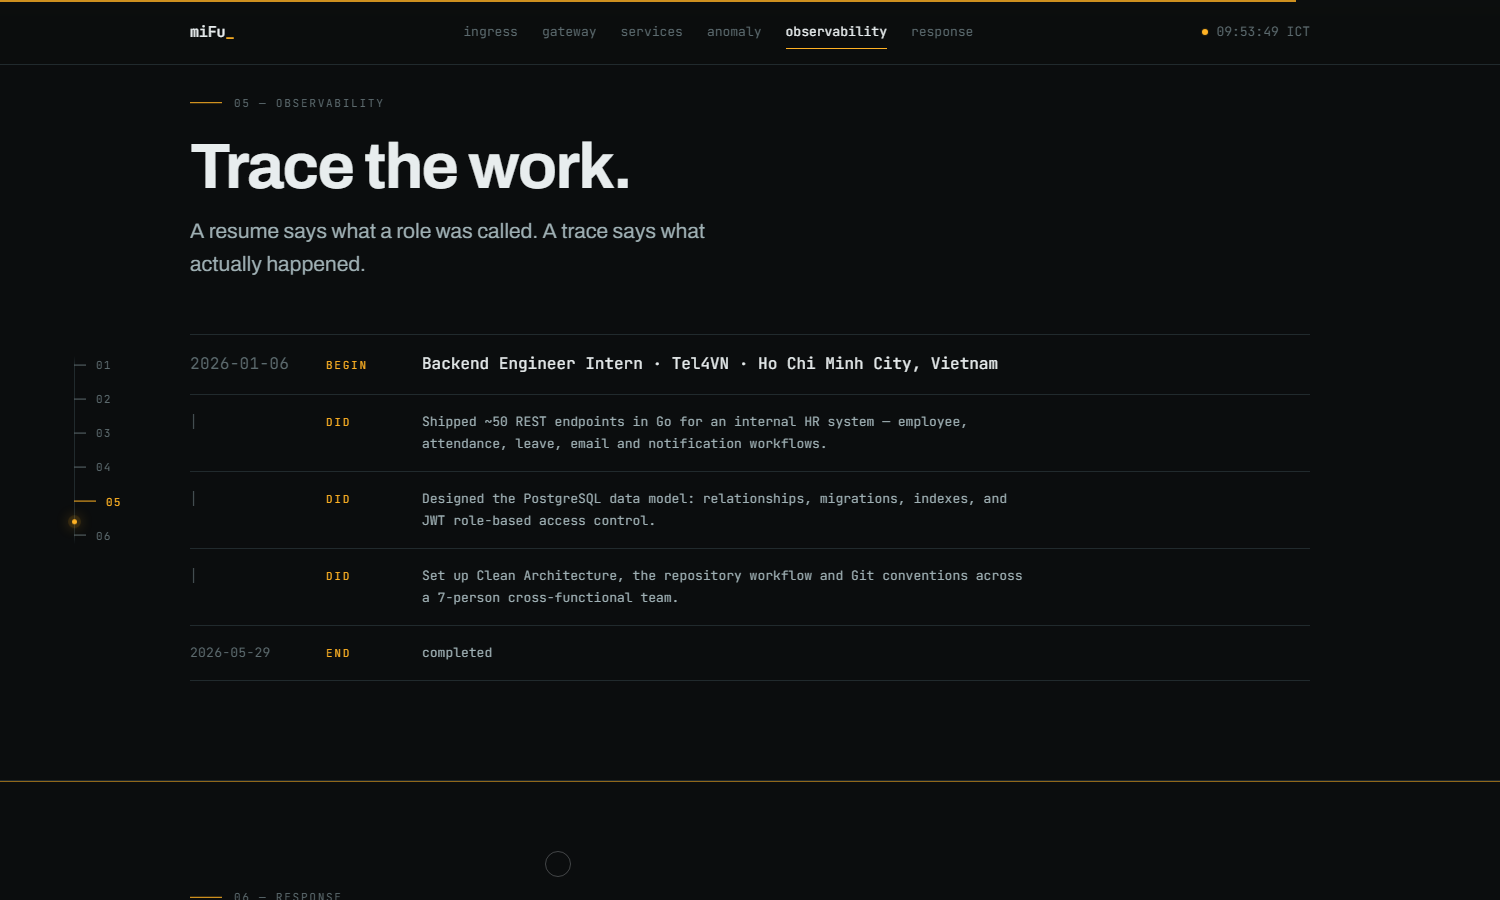
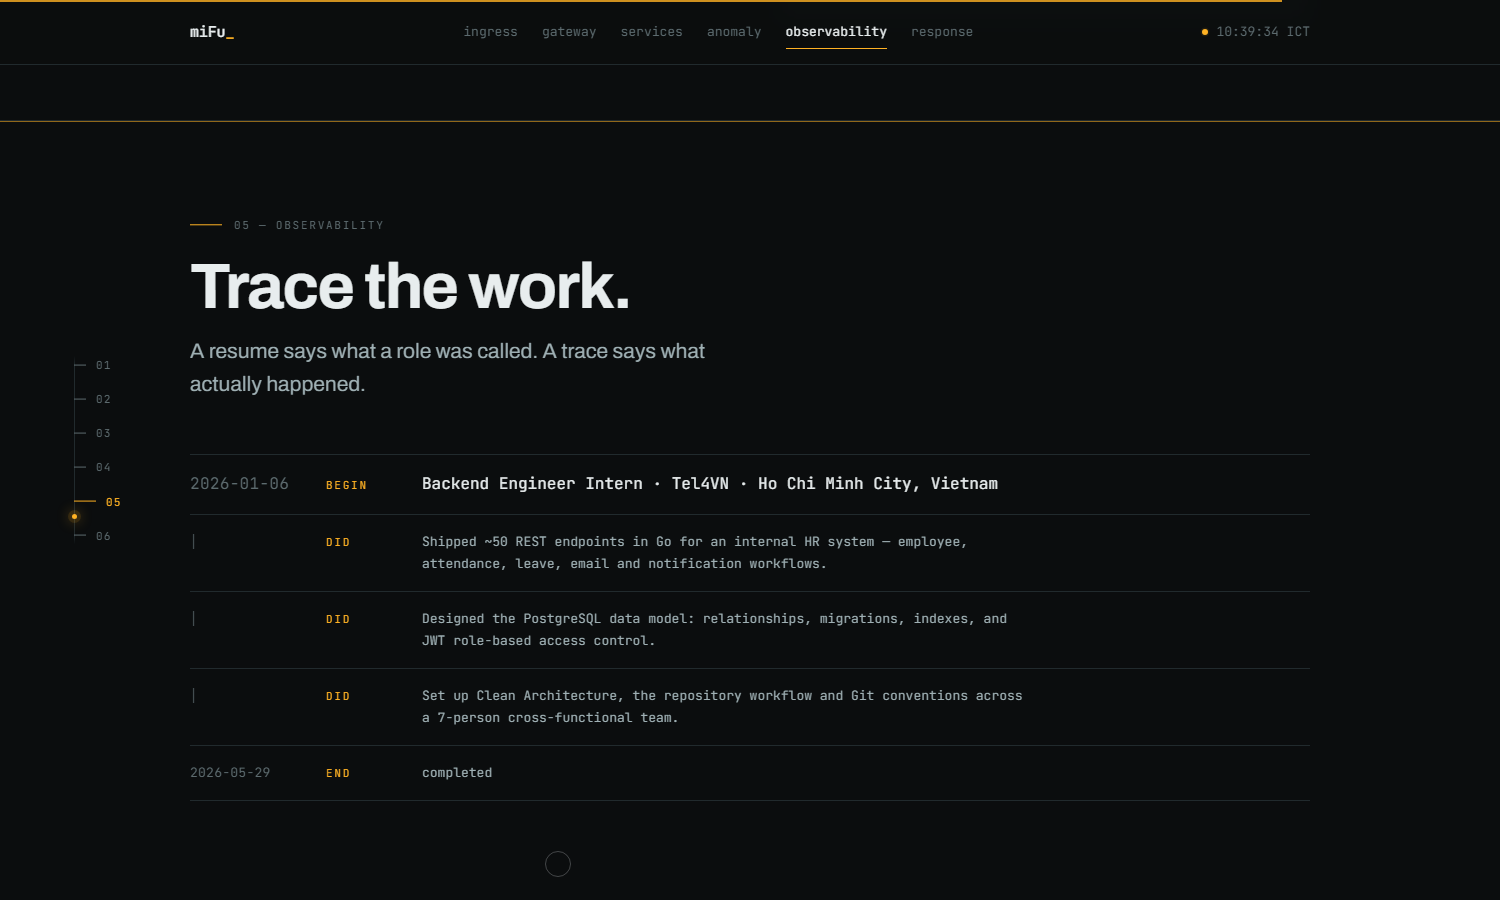
feat(motion): hold the last project, then settle onto the next chapter
The services stage now holds after the second project lands. The wrapper grows
by another half viewport, the sideways travel finishes in the first spread of
it, and the rest is a dwell. The dwell is a release rather than a freeze: the
stage lifts 6%, pulls back to 0.96 and dims to 0.55 across it, so the hold
reads as the chapter making way instead of the page stalling. Leaving chapter
03 now costs deliberate scrolling, which is what was asked for.

Snapping changes shape. It used to close a gap of a fifth of a viewport in
whichever direction the reader was already going. It now waits for the reader
to stop, and if a chapter boundary is sitting in the bottom band of the viewport
(45%) going down, or the top band going up, it settles onto that boundary. The
idle window is 2.4s, so a pause to read is not interrupted, and the snap runs
for 1.1s instead of 0.6 so it reads as settling rather than jumping.

The scroll itself is slower than the last pass. lerp 0.2 became 0.16, which
moves the 90% point of a 400px tick from 208ms to 241ms and the settle from
574ms to 690ms. The 1.05s duration this replaced settled in 776ms, so this sits
between the two, on the smoother side of the earlier complaint. One constant in
useSmoothScroll.ts moves it either way.

Verification: pnpm scroll, 35 checks, all passing. New ones: the projects travel
one stage width and park, the stage holds for 450px after that with its top
[…]

diff --git a/src/hooks/useSmoothScroll.ts b/src/hooks/useSmoothScroll.ts
@@ -34,7 +34,7 @@ export const useSmoothScroll = () => {
     // long tail, and every scrubbed position on the page then chases that eased
     // value. A fixed fraction per frame tracks the wheel directly, which is what
     // reads as smooth rather than heavy.
-    const lenis = new Lenis({ lerp: 0.2, smoothWheel: true });
+    const lenis = new Lenis({ lerp: 0.16, smoothWheel: true });
 
     let frame = 0;
     let eased = 0;
@@ -46,15 +46,15 @@ export const useSmoothScroll = () => {
 
       // Speed is measured here as pixels moved per frame rather than read from
       // Lenis's own velocity, whose unit is internal and unrelated to a pixel
-      // step. With lerp at 0.2 an eased scroll steps about 26px per frame on a
-      // normal wheel tick and over 50 on a fling, so 55 puts a tick below half
+      // step. With lerp at 0.16 an eased scroll steps about 20px per frame on a
+      // normal wheel tick and over 50 on a fling, so 45 puts a tick below half
       // the shear and reserves the clamp for a fling.
       const y = lenis.animatedScroll;
       const step = y - last;
       last = y;
       eased += (step - eased) * 0.25;
 
-      const value = Math.max(-1, Math.min(1, eased / 55));
+      const value = Math.max(-1, Math.min(1, eased / 45));
       scrollVelocity.value = value;
 
       const skew = +(value * SKEW_MAX).toFixed(3);
@@ -67,14 +67,16 @@ export const useSmoothScroll = () => {
     };
     frame = requestAnimationFrame(raf);
 
-    // Snap. When the wheel stops close to a chapter boundary, finish the move in
-    // the direction the reader was already going. It only ever closes a gap of a
-    // fifth of a viewport or less, never pulls against the direction of travel,
-    // and never fires twice for the same boundary, so a position the reader
-    // chose is not taken away from them.
-    const SNAP_ROOM = 0.2;
-    const SNAP_NEAR = 24;
-    const SNAP_DURATION = 0.6;
+    // Snap. When the reader stops while a chapter boundary is in view, the page
+    // finishes the transition for them. A boundary counts as in view when it sits
+    // in the bottom band of the viewport going down (or the top band going up),
+    // which is the moment a section has just been touched; once the reader is
+    // properly inside a chapter, a pause is left alone. The idle window and the
+    // band are the two numbers that decide how eager this is.
+    const SNAP_IDLE = 2400;
+    const SNAP_BAND = 0.45;
+    const SNAP_DURATION = 1.1;
+    const SNAP_GAP = 8;
     let direction = 1;
     let previousY = window.scrollY;
     let settleTimer = 0;
@@ -84,18 +86,21 @@ export const useSmoothScroll = () => {
       if (document.querySelector('dialog[open]')) return;
 
       const y = window.scrollY;
-      if (Math.abs(y - snappedTo) < 8) return;
-
+      const vh = window.innerHeight;
+      const band = vh * SNAP_BAND;
       const tops = [...document.querySelectorAll('main > section[id]')].map(
         (el) => el.getBoundingClientRect().top + y,
       );
-      const ahead = tops.filter((top) =>
-        direction > 0 ? top > y + SNAP_NEAR : top < y - SNAP_NEAR,
-      );
-      if (ahead.length === 0) return;
 
-      const target = direction > 0 ? Math.min(...ahead) : Math.max(...ahead);
-      if (Math.abs(target - y) > window.innerHeight * SNAP_ROOM) return;
+      let target: number | null = null;
+      for (const top of tops) {
+        const ahead = top - y;
+        const visible = direction > 0 ? ahead > vh - band && ahead < vh - SNAP_GAP : ahead < -SNAP_GAP && ahead > -band;
+        if (!visible || Math.abs(top - snappedTo) < SNAP_GAP) continue;
+        if (target === null) target = top;
+        else target = direction > 0 ? Math.min(target, top) : Math.max(target, top);
+      }
+      if (target === null) return;
 
       snappedTo = target;
       lenis.scrollTo(target, { duration: SNAP_DURATION });
@@ -108,9 +113,9 @@ export const useSmoothScroll = () => {
       previousY = y;
 
       window.clearTimeout(settleTimer);
-      settleTimer = window.setTimeout(snap, 200);
+      settleTimer = window.setTimeout(snap, SNAP_IDLE);
     };
-    lenis.on('scroll', onScroll);
+    window.addEventListener('scroll', onScroll, { passive: true });
 
     // A fragment link would jump: the browser sets the scroll position, Lenis
     // corrects it back on the next frame. Route it through Lenis instead, and
@@ -138,6 +143,7 @@ export const useSmoothScroll = () => {
     return () => {
       cancelAnimationFrame(frame);
       window.clearTimeout(settleTimer);
+      window.removeEventListener('scroll', onScroll);
       document.removeEventListener('click', onClick);
       lenis.destroy();
       root.style.scrollBehavior = cssBehaviour;

diff --git a/src/hooks/useScrollMotion.ts b/src/hooks/useScrollMotion.ts
@@ -189,40 +189,64 @@ export const useScrollMotion = () => {
         });
       });
 
-      // 6 · services, pinned. The two projects are one path as much as the six
+      // 6 · services, held. The two projects are one path as much as the six
       // chapters are, so the stage holds still while the track is carried
-      // sideways. The hold is a sticky stage inside a wrapper the hook sizes,
-      // not a ScrollTrigger pin: a pin spacer appears during a refresh, after
-      // the triggers below it have measured, and every chapter under services
-      // then scrubs a wrapper-width too early. The travel is written as a custom
-      // property rather than as a transform, because the track already carries
-      // the velocity shear in CSS and two owners of one transform is how the
-      // chapter title broke once.
+      // sideways, and then holds again after the second project lands: the extra
+      // scroll is a dwell, and leaving the chapter takes deliberate scrolling.
+      //
+      // The hold is a sticky stage inside a wrapper the hook sizes, not a
+      // ScrollTrigger pin: a pin spacer appears during a refresh, after the
+      // triggers below it have measured, and every chapter under services then
+      // scrubs a wrapper-width too early. The sideways travel is written as a
+      // custom property rather than as a transform, because the track already
+      // carries the velocity shear in CSS and one transform has one owner.
+      // One trigger spans travel plus dwell, and its progress is split by hand,
+      // so the two numbers stay independent.
       media.add('(min-width: 1024px)', () => {
         const stage = document.querySelector<HTMLElement>('.services__stage');
         const hold = stage?.parentElement;
         const track = stage?.querySelector<HTMLElement>('.services__list');
         if (!stage || !hold || !track) return;
 
-        const travel = { x: 0 };
         const spread = () => Math.max(0, (track.children.length - 1) * stage.clientWidth);
+        const dwell = () => Math.round(window.innerHeight * 0.5);
 
-        // The wrapper is one viewport plus one spread of scroll room, and it is
+        // The wrapper is one viewport plus the travel plus the dwell, and it is
         // resized before every refresh rather than after, so nothing ever
         // measures a layout that is about to change.
         const room = () => {
-          hold.style.height = `calc(100svh + ${spread()}px)`;
+          hold.style.height = `calc(100svh + ${spread() + dwell()}px)`;
         };
         room();
         ScrollTrigger.addEventListener('refreshInit', room);
 
-        const tween = gsap.to(travel, {
-          x: () => -spread(),
+        const place = (progress: number) => {
+          const gone = progress * (spread() + dwell());
+          const slid = spread() > 0 ? Math.min(1, gone / spread()) : 1;
+          const leave = dwell() > 0 ? Math.max(0, Math.min(1, (gone - spread()) / dwell())) : 0;
+
+          track.style.setProperty('--services-x', `${(-spread() * slid).toFixed(1)}px`);
+
+          // The dwell is a release, not a freeze: the stage lifts, pulls back a
+          // little and dims, so the hold reads as the chapter making way rather
+          // than the page stalling.
+          stage.style.transform = `translate3d(0, ${(-6 * leave).toFixed(2)}%, 0) scale(${(
+            1 - 0.04 * leave
+          ).toFixed(3)})`;
+          stage.style.opacity = `${(1 - 0.45 * leave).toFixed(3)}`;
+        };
+
+        const state = { progress: 0 };
+        const tween = gsap.to(state, {
+          progress: 1,
           ease: 'none',
-          scrollTrigger: { trigger: hold, start: 'top top', end: 'bottom bottom', scrub: true },
-          onUpdate: () => {
-            track.style.setProperty('--services-x', `${travel.x.toFixed(1)}px`);
+          scrollTrigger: {
+            trigger: hold,
+            start: 'top top',
+            end: () => `+=${spread() + dwell()}`,
+            scrub: true,
           },
+          onUpdate: () => place(state.progress),
         });
 
         return () => {
@@ -230,6 +254,8 @@ export const useScrollMotion = () => {
           tween.kill();
           hold.style.removeProperty('height');
           track.style.removeProperty('--services-x');
+          stage.style.removeProperty('transform');
+          stage.style.removeProperty('opacity');
         };
       });
 

diff --git a/DESIGN.md b/DESIGN.md
@@ -123,16 +123,18 @@ a source of content.
 
 It is a fixed fraction per frame, not a duration. A duration gives the wheel an easing curve with
 a long tail, and every scrubbed position on the page then chases that already-eased value.
-Measured after one 400px wheel tick, the page settled in 776ms with a 1.05s duration and in 574ms
-with `lerp: 0.2`, and the point at which 90% of the travel was done moved from 334ms to 208ms.
-The first movement comes 8ms after the wheel event.
+Measured after one 400px wheel tick: a 1.05s duration settled in 776ms and reached 90% of the
+travel at 334ms, `lerp: 0.2` settled in 574ms and reached 90% at 208ms, and the shipped
+`lerp: 0.16` settles in 690ms and reaches 90% at 241ms. The first movement comes 8ms after the
+wheel event, so the lag is the curve, not the input.
 
 ### Snap
 
-When the wheel stops within a fifth of a viewport of a chapter boundary, the page finishes the
-move on its own. It only closes a gap in the direction the reader was already going, never pulls
-backwards, and never fires twice for the same boundary, so a position someone chose is not taken
-away from them. A stop well inside a chapter is left exactly where it landed.
+When the reader stops with a chapter boundary inside the bottom band of the viewport going down,
+or the top band going up, the page finishes the move onto that boundary by itself. The idle
+window is 2.4s, the band is 45% of the viewport, and the snap takes 1.1s so it reads as the page
+settling rather than jumping. A stop well inside a chapter is left alone, and a boundary the page
+is already sitting on is ignored.
 
 ### The pointer layer
 
@@ -190,7 +192,10 @@ nothing never reports itself as intersecting, so a mask on the observed element 
 ### The services beat
 
 The two projects are one path as much as the six chapters are, so the stage holds still while the
-track is carried sideways: one slide per viewport, and one spread of scroll room to travel it.
+track is carried sideways: one slide per viewport, one spread of scroll room to travel it, and
+then a dwell of half a viewport before the chapter lets go. The dwell is the release. The stage
+lifts 6%, pulls back to 0.96 and dims to 0.55 across it, so the hold reads as the chapter making
+way instead of the page stalling, and leaving the chapter costs deliberate scrolling.
 
 The stage is `position: sticky` inside a wrapper the hook sizes, not a ScrollTrigger pin. A pin
 spacer is created during a refresh, after the triggers below it have measured, so every chapter
